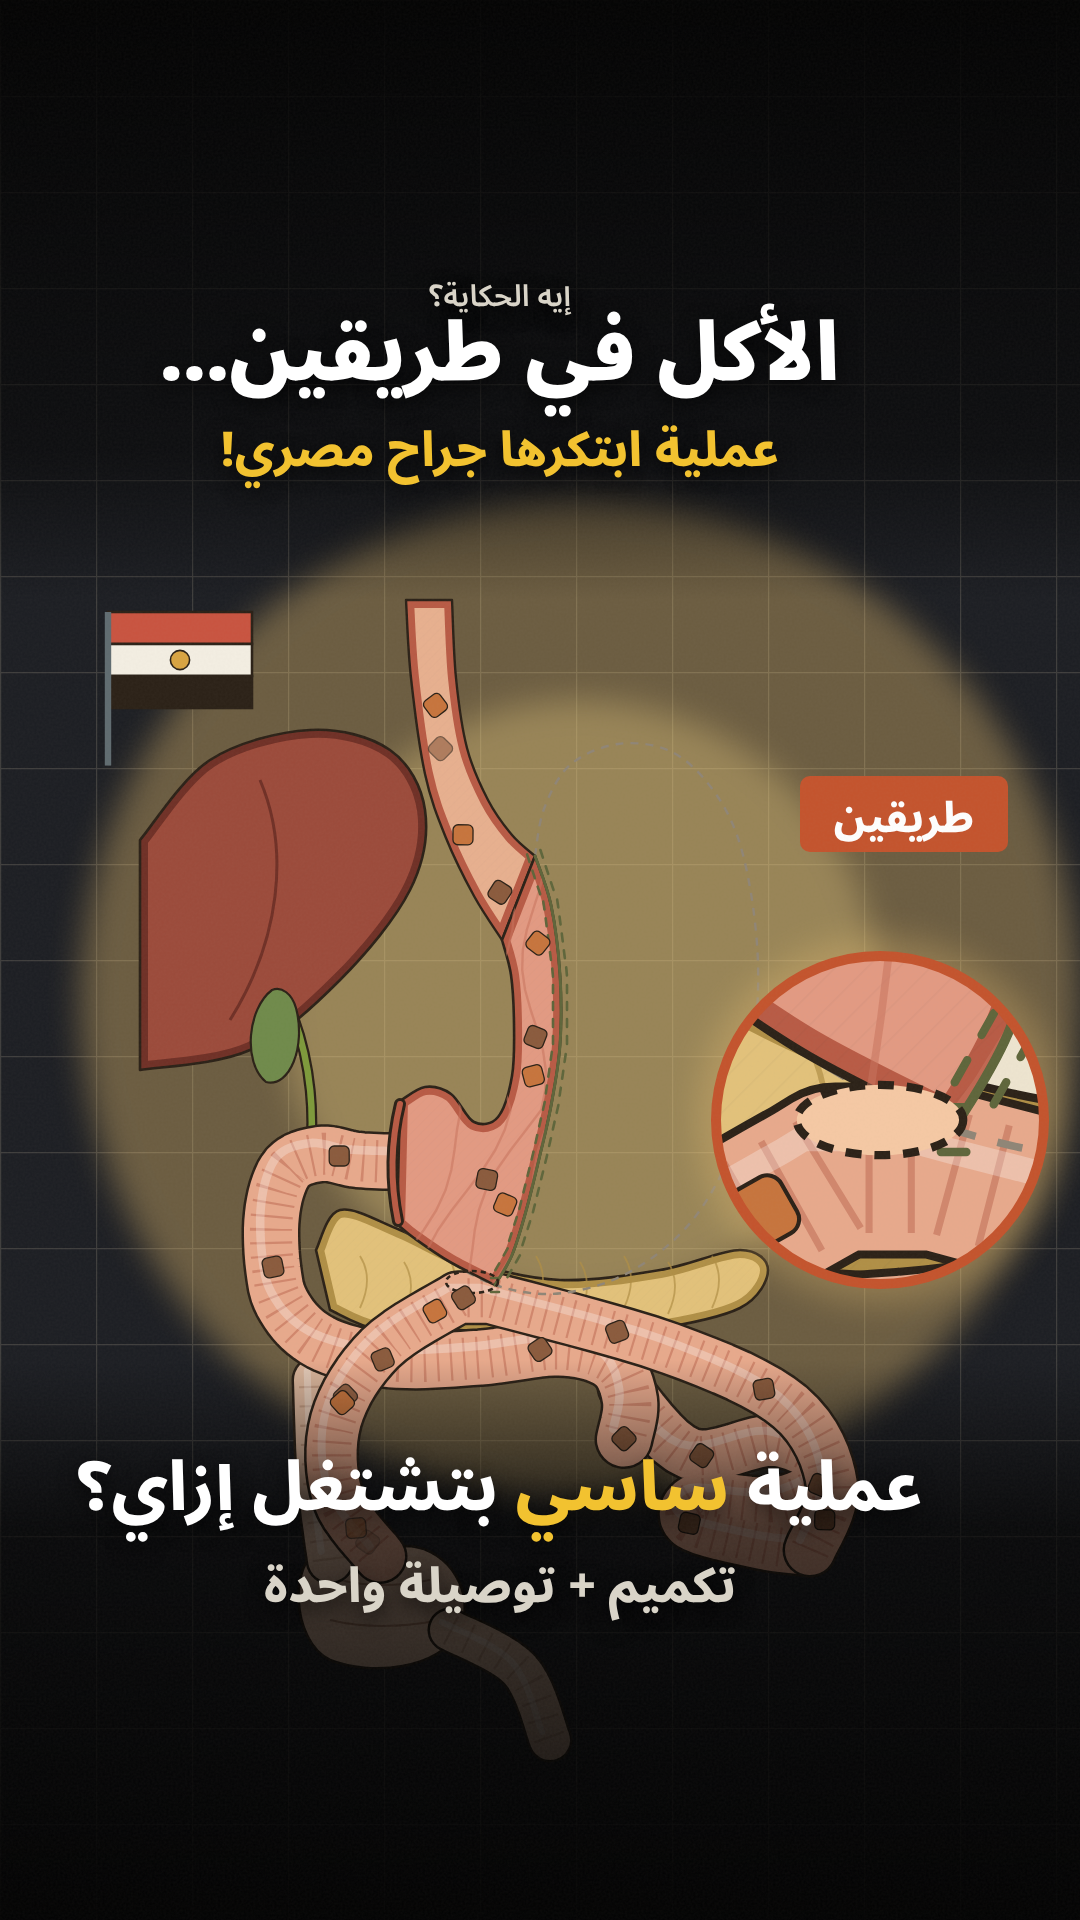
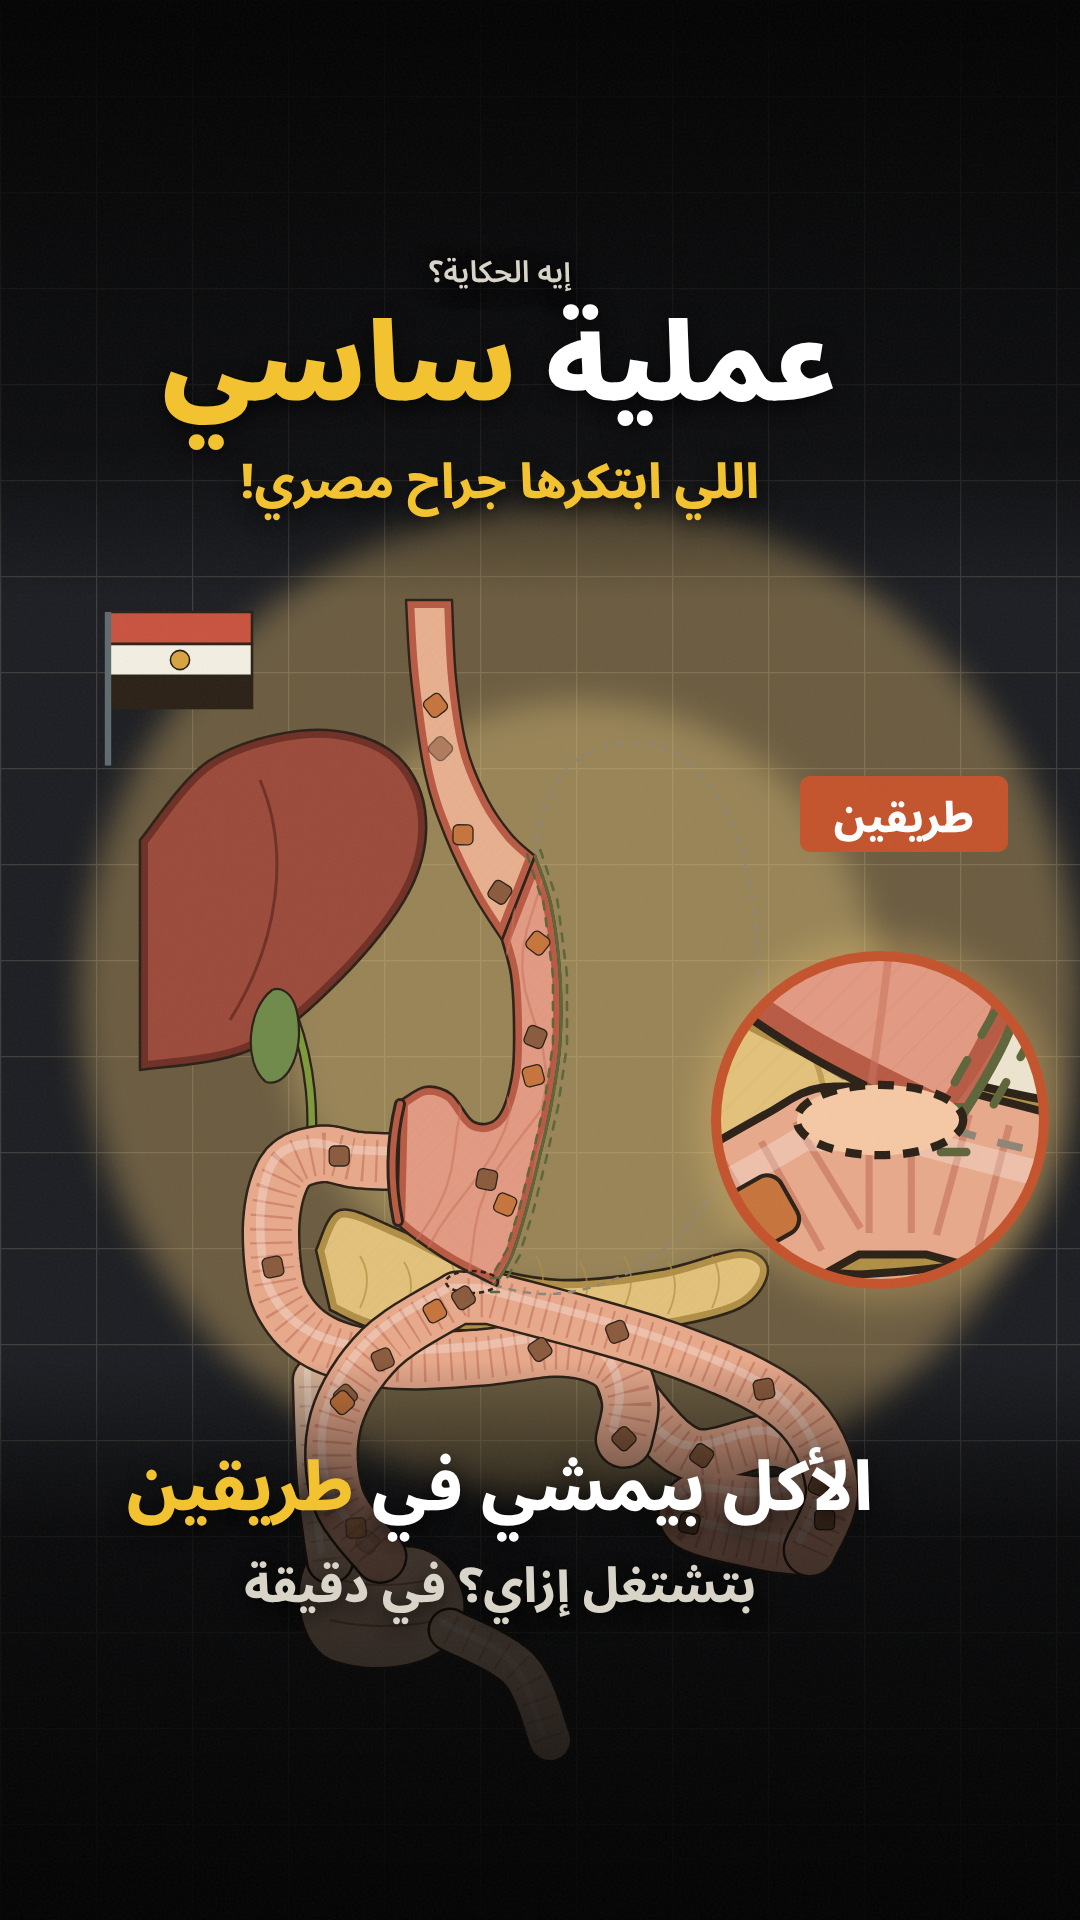
sasi: cover hook «عملية ساسي» in big type
Claude-Session: https://claude.ai/code/session_016TN7FMrj14BBSoekJRNp1i

Changed region(s): [[0.1528, 0.125, 0.7944, 0.2812], [0.0611, 0.75, 0.8556, 0.8438]]

diff --git a/brand/eh-elhekaya/cover-sasi-tiktok.html b/brand/eh-elhekaya/cover-sasi-tiktok.html
@@ -12,10 +12,10 @@
 </style></head><body>
 <div class="cover">
   <svg id="art" viewBox="0 0 540 960"></svg>
-  <p class="t" style="top:132px;font:600 15px 'Noto Sans Arabic';color:#d9d4c8">إيه الحكاية؟</p>
-  <p class="t" style="top:154px;font:900 40px/1.2 'Noto Sans Arabic';color:#fff">الأكل في طريقين…</p>
-  <p class="t" style="top:210px;font:800 24px/1.3 'Noto Sans Arabic';color:#f2c230">عملية ابتكرها جراح مصري!</p>
-  <p class="t" style="top:722px;font:800 34px/1.35 'Noto Sans Arabic';color:#fff">عملية <span style="color:#f2c230">ساسي</span> بتشتغل إزاي؟<br><span style="font-size:24px;color:#d9d4c8">تكميم + توصيلة واحدة</span></p>
+  <p class="t" style="top:120px;font:600 15px 'Noto Sans Arabic';color:#d9d4c8">إيه الحكاية؟</p>
+  <p class="t" style="top:152px;font:900 54px/1.15 'Noto Sans Arabic';color:#fff">عملية <span style="color:#f2c230">ساسي</span></p>
+  <p class="t" style="top:226px;font:800 24px/1.3 'Noto Sans Arabic';color:#f2c230">اللي ابتكرها جراح مصري!</p>
+  <p class="t" style="top:722px;font:800 34px/1.35 'Noto Sans Arabic';color:#fff">الأكل بيمشي في <span style="color:#f2c230">طريقين</span><br><span style="font-size:24px;color:#d9d4c8">بتشتغل إزاي؟ في دقيقة</span></p>
 </div>
 <svg width="0" height="0" style="position:absolute" aria-hidden="true"><defs>
   <pattern id="hatch" width="7" height="7" patternUnits="userSpaceOnUse" patternTransform="rotate(45)"><path d="M0 0 V7" stroke="#2b2b2b" stroke-width="1" opacity=".16"/></pattern>
